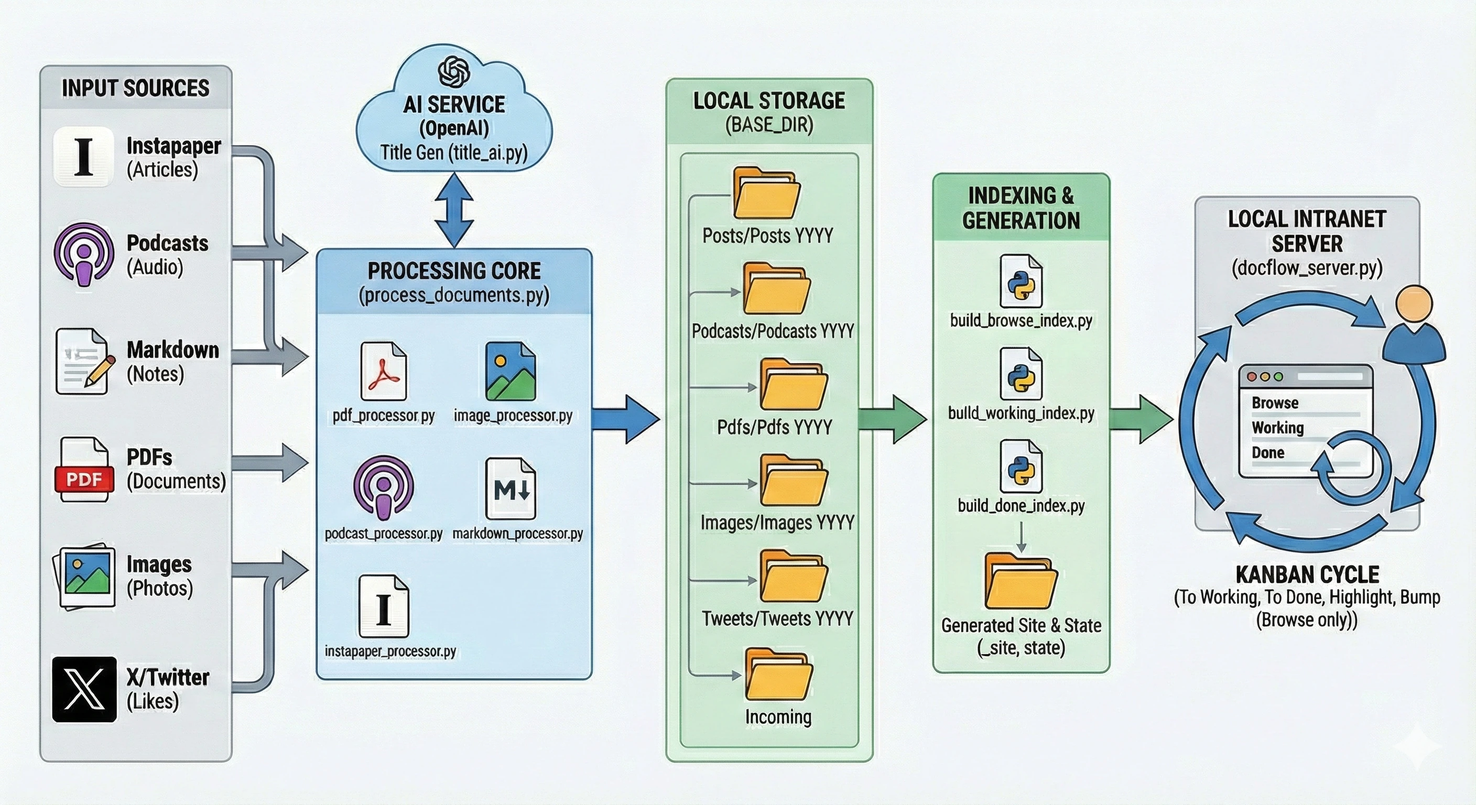
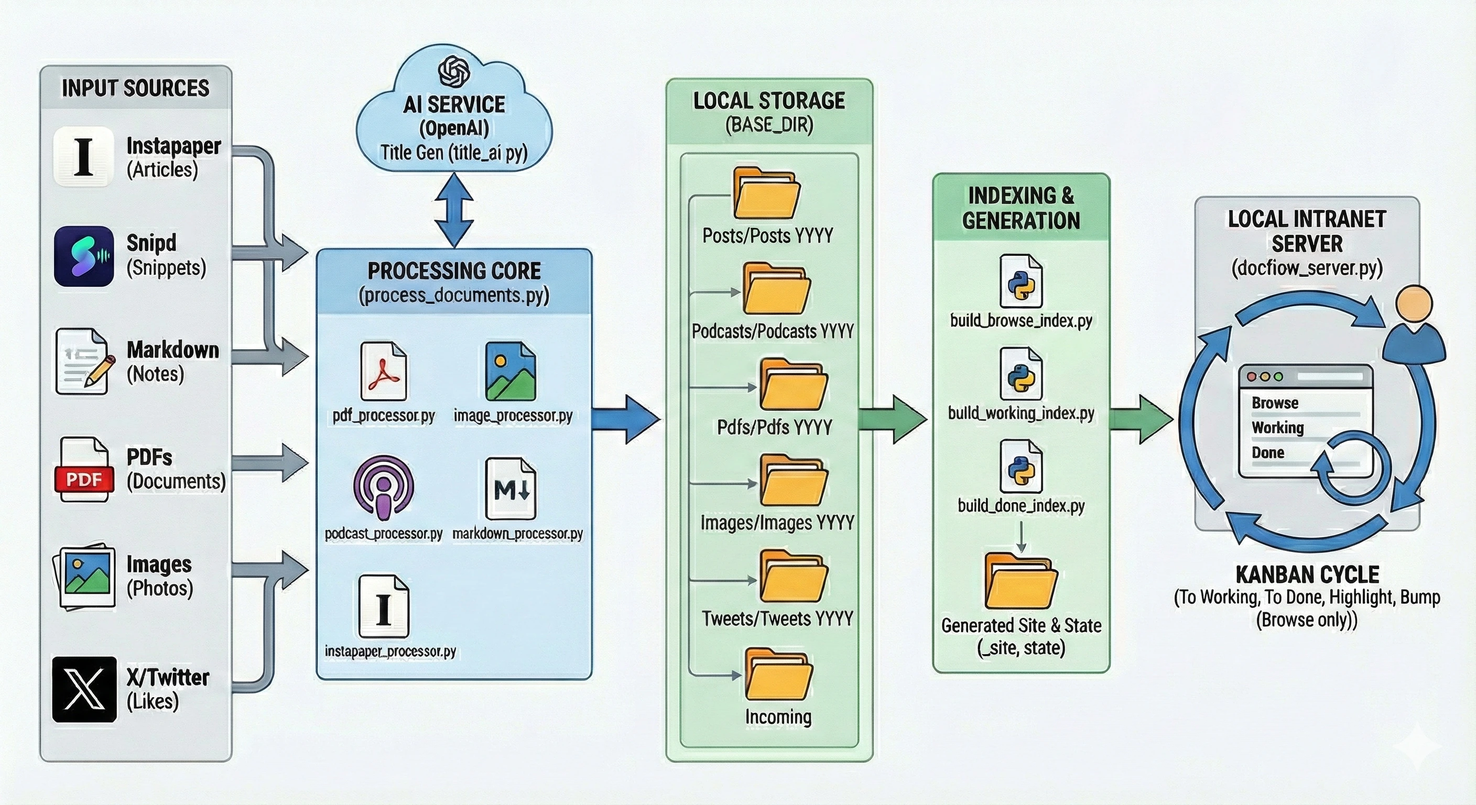
docs: update architecture infographic and add Snipd reference

diff --git a/README.md b/README.md
@@ -2,6 +2,8 @@
 
 docflow automates your personal document pipeline (Instapaper posts, podcasts, Markdown notes, PDFs, images, and tweets) and serves everything locally from `BASE_DIR`.
 
+Podcast snippets are typically captured in [Snipd](https://www.snipd.com) and then exported into this pipeline.
+
 ## Architecture overview
 
 ![docflow architecture](docs/images/docflow-architecture.webp)
